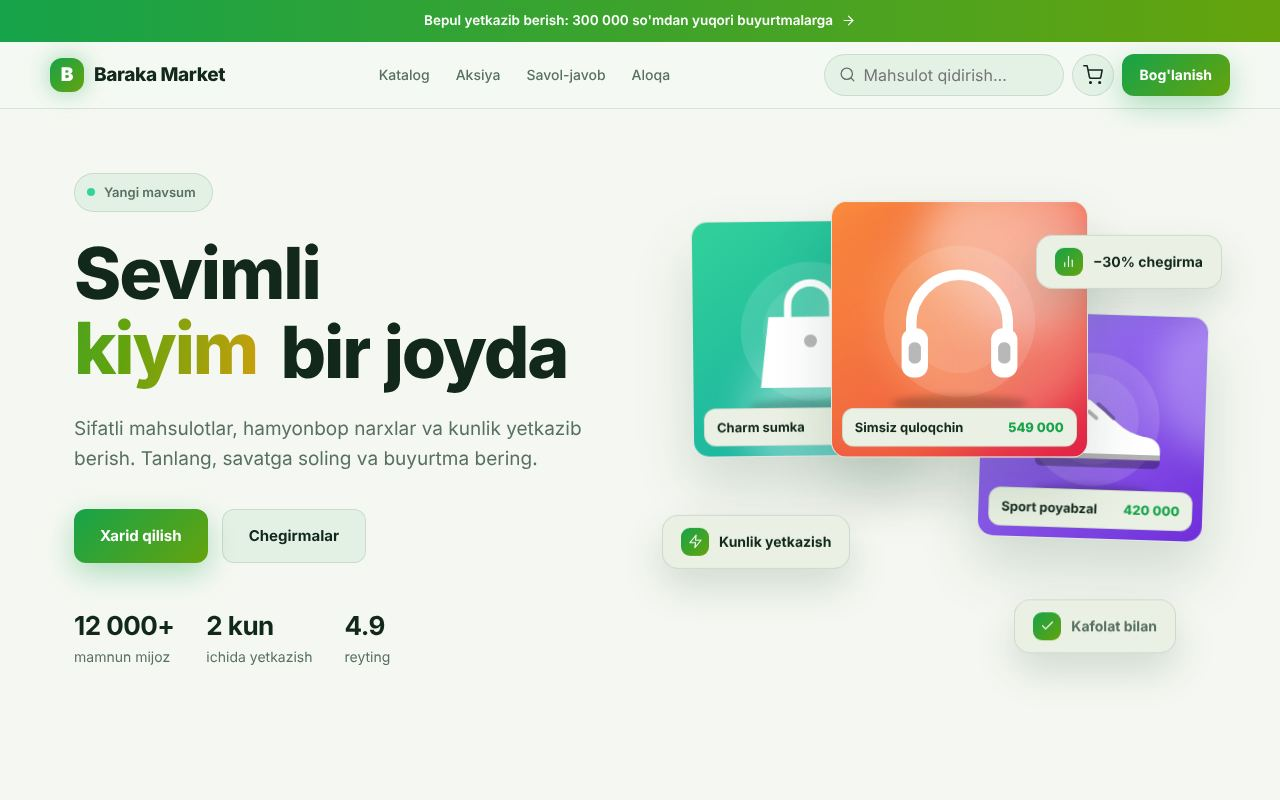
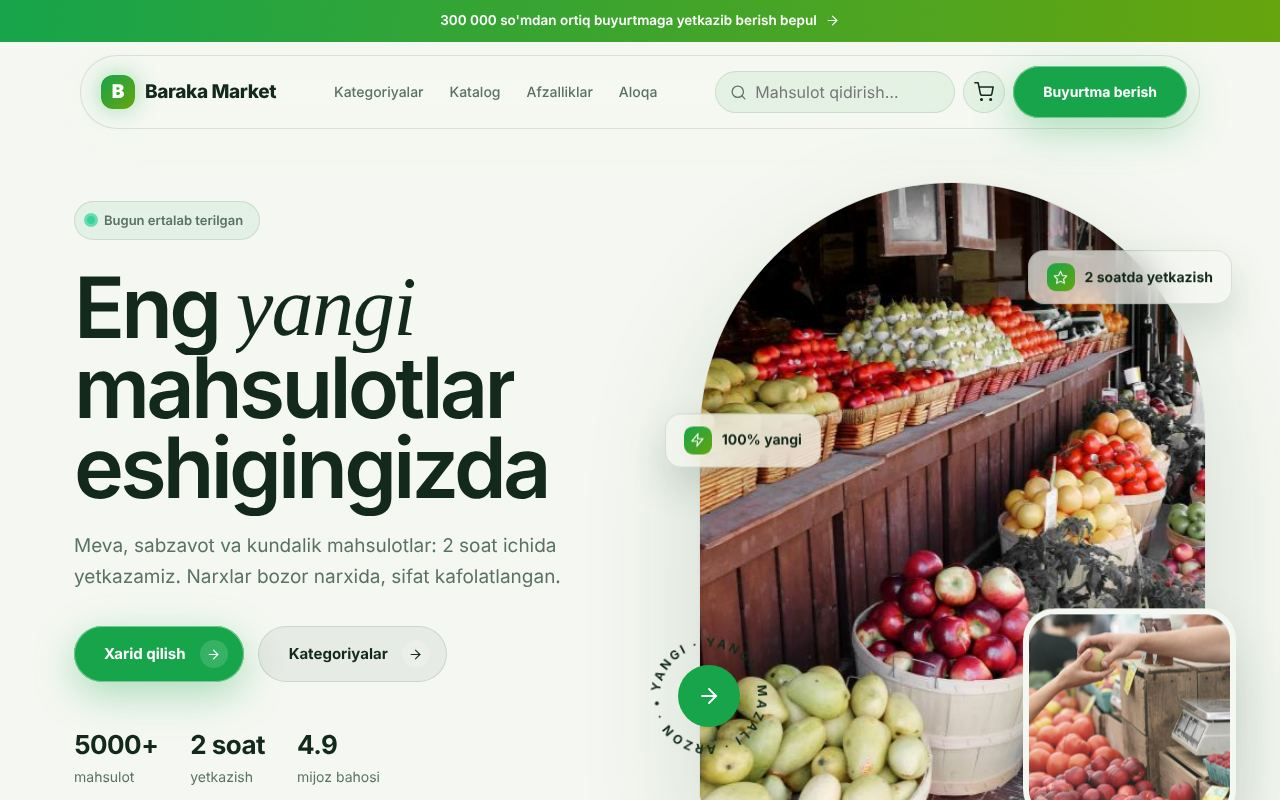
Shablonlar: do'konlar partiyasi tugallanmoqda
Claude-Session: https://claude.ai/code/session_017neQ4uNnwpSPfLwZegAGAe

diff --git a/web-konstruktor/public/tpl-2.js b/web-konstruktor/public/tpl-2.js
@@ -292,7 +292,7 @@
       contacts: { phone: '+998 71 207 33 11', email: 'salom@qahvanon.uz', address: "Toshkent, Mirzo Ulug'bek tumani, Oybek ko'chasi 19", hours: 'Har kuni 8:00 – 22:00', telegram: '@qahvanon_uz', instagram: '@qahva.non' },
       footer: { text: 'Issiq qahva, iliq suhbat.', links: [] },
       sections: [
-        sec('bosh', 'hero', { layout: 'cinema', badge: 'Har kuni 8:00 dan 22:00 gacha', titleStart: "Ertalab *qahva*, kunni esa shirinlik bilan", words: [], titleEnd: '', text: "O'zimiz qovurgan qahva donalari, ertalab pishgan kruassan va uyda tayyorlangan shirinliklar. Ishga shoshilmang: bir piyola vaqt ajrating.", cta1Text: 'Stol band qilish', cta1Link: '#bron', cta2Text: "Menyuni ko'rish", cta2Link: '#menyu', visual: 'none', image: P('kafe', 1), trust: [{ value: '4.9', label: 'mehmonlar bahosi' }, { value: '40+', label: 'xil shirinlik' }, { value: '8 yil', label: 'sizlar bilan' }] }),
+        sec('bosh', 'hero', { layout: 'cinema', badge: 'Har kuni 8:00 dan 22:00 gacha', titleStart: "Har ertalab *qahva* va non", words: [], titleEnd: '', text: "O'zimiz qovurgan qahva donalari, ertalab pishgan kruassan va uyda tayyorlangan shirinliklar. Ishga shoshilmang: bir piyola vaqt ajrating.", cta1Text: 'Stol band qilish', cta1Link: '#bron', cta2Text: "Menyuni ko'rish", cta2Link: '#menyu', visual: 'none', image: P('kafe', 1), trust: [{ value: '4.9', label: 'mehmonlar bahosi' }, { value: '40+', label: 'xil shirinlik' }, { value: '8 yil', label: 'sizlar bilan' }] }),
         sec('lenta', 'marquee', { items: ['Yangi qovurilgan qahva', 'Kruassan', 'Cheesecake', 'Tiramisu', 'Matcha', 'Nonushta', 'Uy pishiriqlari'] }),
         sec('biz', 'statement', { navLabel: 'Biz haqimizda', eyebrow: 'Hikoyamiz', text: "Biz uchun qahva — bu *kichik bayram*. Har bir piyola *mehr* va diqqat bilan, har bir pishiriq esa *ertalab* qo'lda tayyorlanadi.", author: 'Dilshod Nazarov', role: 'Barista va asoschi', image: P('odam', 2), buttonText: '', buttonLink: '#' }),
         sec('menyu', 'menu', { navLabel: 'Menyu', eyebrow: 'Menyu', title: "Bizning *sevimlilar*", text: 'Qahva, nonushta va shirinliklar: har kuni yangi tayyorlanadi.', mode: 'none', items: [
